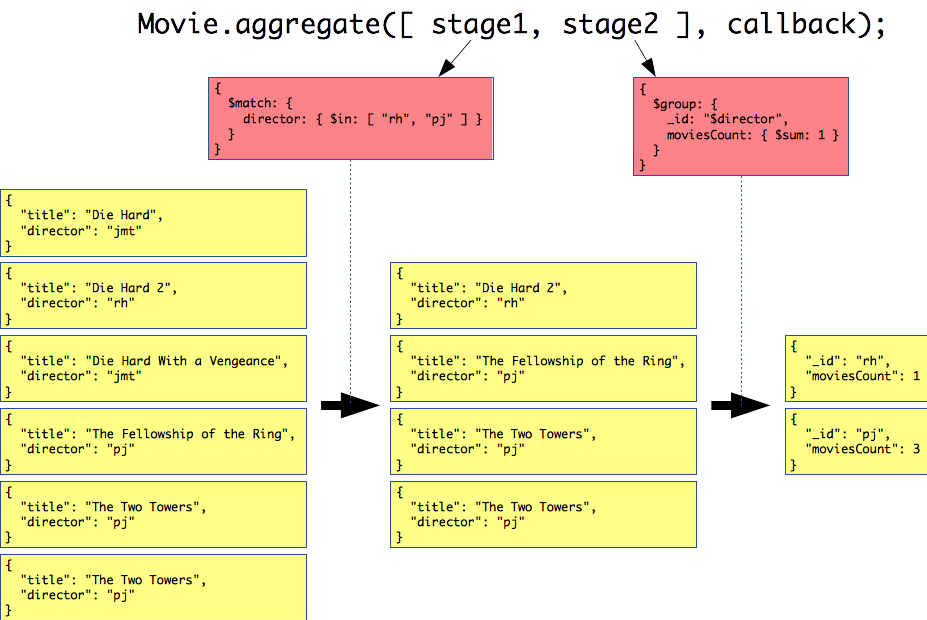
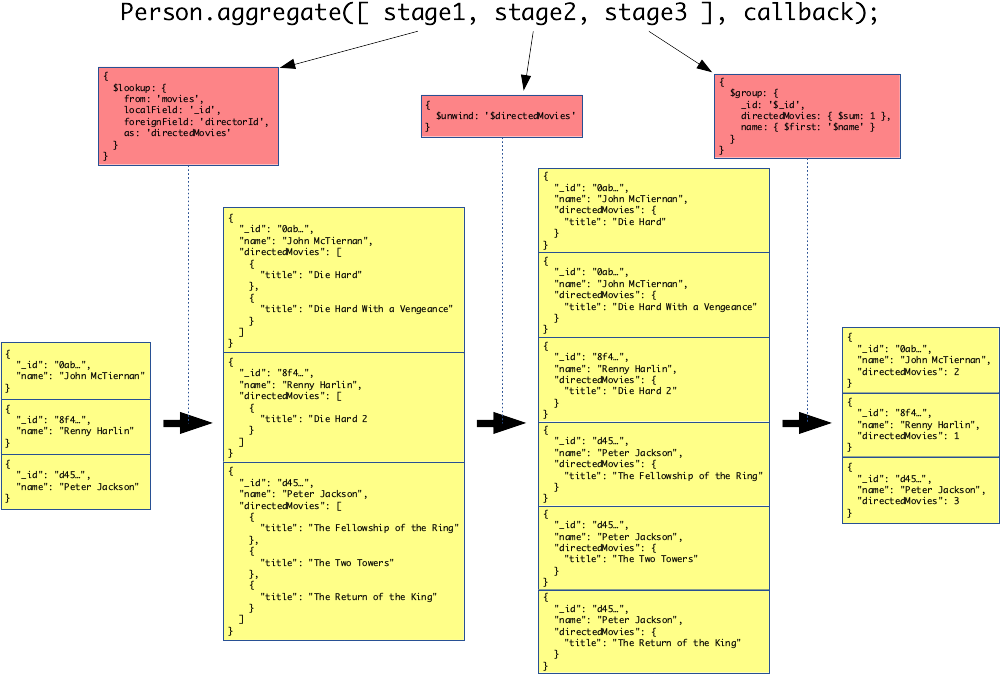
Express & mongoose: rewrite aggregation examples for mongodb 3.2+ with the  operator

diff --git a/subjects/express-mongoose/README.md b/subjects/express-mongoose/README.md
@@ -9,8 +9,8 @@ Learn how to implement advanced RESTful API operations in [Express][express] wit
 
 **Recommended reading**
 
-* [RESTful APIs](../rest/)
-* [RESTful API Conventions](../rest-conventions/)
+* [REST introduction & HTTP](../rest/)
+* [REST in depth](../rest-advanced/)
 * [Express](../express/)
 * [Mongoose](../mongoose/)
 
@@ -150,10 +150,12 @@ How do I get a reasonable amount of stuff?
 ### Paginating collections
 
 Some collections are just **too large to send** to the client in their entirety.
-The following examples will demonstrate two ways implement **pagination**
-to retrieve only one "page" of a collection at a time.
+The following examples will demonstrate two ways implement **pagination** to
+retrieve only one "page" of a collection at a time.
 
-The following examples assume that you have read [RESTful API Conventions](../rest-conventions/) which explains different ways to expose pagination in a RESTful API.
+The following examples assume that you have read [REST in
+Depth](../rest-advanced/) which explains different ways to expose pagination in
+a RESTful API.
 
 
 
@@ -324,22 +326,21 @@ In SQL, assuming People and Movies are in **different tables**, you would use a 
 ```sql
 SELECT people.*, SUM(movies.id) AS directed_movies_count
   FROM `people INNER JOIN movies` ON (people.id = movies.director_id)
-  `GROUP BY` people.id;
+  `GROUP BY people.id`;
 ```
 
-#### No join in MongoDB
+#### MongoDB aggregations
 
-However, there is **no JOIN** in MongoDB.
-
-If your related documents (People and Movies) are stored in two **separate collections** (as is the case in the demonstration RESTful API),
-there is **no way to retrieve that information in ONE query**.
+If your related documents are stored in two **separate collections** (as is the
+case for People and Movies in the demonstration RESTful API), you have to
+**aggregate** information from both collections.
 
 <p class='center'><img src='images/domain-model.png' class='w70' /></p>
 
-But what you can do is:
+Originally, there was no equivalent to the `JOIN` operator in MongoDB. However,
+the [`$lookup` aggregation operator][mongodb-lookup] was added in version 3.2.
 
-* Find the People you need (using `Person.find()`)
-* Count how many movies they have directed in one query using [MongoDB aggregations][mongodb-aggregation]
+To use it, you have to use [MongoDB aggregations][mongodb-aggregation].
 
 
 
@@ -364,88 +365,162 @@ Each **stage** is an object with an [aggregation pipeline operator][mongodb-aggr
 }
 ```
 
-### Aggregation pipeline example
+#### Aggregation pipeline example (part 1/3)
 
-Let's say you have retrieved a list of Person documents from the database,
-and you want to know how many Movies they have directed:
+Let's say you have retrieved a list of Person documents from the database, and
+you want to know how many Movies they have directed. The [`$lookup`
+operator][mongodb-lookup] retrieves each Person's directed Movies through the
+`directorId` property:
 
 ```js
-const people = [ /* List of Person documents from the database */ ];
-
-// Get the documents' IDs
-const personIds = people.map(person => person._id);
-
-Movie.`aggregate`([
-  {
-    `$match`: { // Select movies directed by the people we are interested in
-      director: { $in: personIds }
-    }
-  },
-  {
-    `$group`: { // Group the documents by director ID
-      _id: '$director',
-      moviesCount: { // Count the number of movies for that ID
-        $sum: 1
-      }
-    }
+{
+  $lookup: {
+    from: 'movies',
+    localField: '_id',
+    foreignField: 'directorId',
+    as: 'directedMovies'
   }
-], function(err, results) {
-  // Use the results...
-});
+}
+```
+
+Applying this operator adds the new `directedMovies` property to each Person:
+
+<!-- slide-column -->
+
+```js
+{
+  name: 'Peter Jackson'
+}
+```
+
+<!-- slide-column -->
+
+```js
+{
+  name: 'Peter Jackson',
+  `directedMovies`: [
+    { title: 'a' },
+    { title: 'b' }
+  ]
+}
+```
+
+#### Aggregation pipeline example (part 2/3)
+
+This would be sufficient to count the number of directed movies, but it also
+means you would fetch all the Movies' information from the database when you
+don't really need it. You can avoid this by adding 2 more steps to the pipeline.
+
+The [`$unwind` operator][mongodb-unwind] duplicates Person documents for each
+directed movie:
+
+```js
+{ $unwind: '$directedMovies' }
+```
+
+For example, if there is 1 Person with 2 Movies in the aggregation pipeline so
+far, it is duplicated into 2 People (with the same Person-related information)
+with 1 Movie each:
+
+<!-- slide-column -->
+
+```js
+{
+  name: 'Peter Jackson',
+  directedMovies: `[`
+    { title: 'a' },
+    { title: 'b' }
+  `]`
+}
+```
+
+<!-- slide-column -->
+
+```js
+{
+  name: 'Peter Jackson',
+  directedMovies: `{` title: 'a' `}`
+}
+{
+  name: 'Peter Jackson',
+  directedMovies: `{` title: 'b' `}`
+}
+```
+
+
+
+#### Aggregation pipeline example (part 3/3)
+
+Now that you have one document per Person per directed movie in the aggregation
+pipeline, you can use the [`$group` operator][mongodb-group] to merge these
+documents by ID (the Person's ID) to obtain one document per Person:
+
+```js
+{
+  $group: {
+    _id: '$_id',
+    name: { $first: '$name' },
+    directedMovies: { $sum: 1 }
+  }
+}
+```
+
+The `$first` operator takes the Person information from the first Person
+document with each ID, while the `$sum` operator takes care of counting the
+directed movies, transforming `directedMovies` into a number:
+
+<!-- slide-column -->
+
+```js
+{
+  name: 'Peter Jackson',
+  directedMovies: { title: 'a' }
+}
+{
+  name: 'Peter Jackson',
+  directedMovies: { title: 'b' }
+}
+```
+
+<!-- slide-column -->
+
+```js
+{
+  name: 'Peter Jackson',
+  `directedMovies: 2`
+}
 ```
 
 #### How does it work?
 
-<p class='center'><img src='images/aggregation-pipeline.png' class='w90' /></p>
+<p class='center'><img src='images/aggregation-pipeline.png' class='w100' /></p>
 
-#### Adding the aggregation results to the response
+### Using the aggregation pipeline with Mongoose
 
-That's all well and good, but you still have two separate sets of data:
-
-* The People you have retrieved with the **first query**
-* The aggregated number of Movies you have retrieved with the **aggregation query**
-
-If you just do `res.send(people)`, you will get this:
-
-```json
-[
-  { "name": "Renny Harlin" },
-  { "name": "Peter Jackson" }
-]
-```
-
-What you want is this:
-
-```json
-[
-  { "name": "Renny Harlin", "moviesCount": 1 },
-  { "name": "Peter Jackson", "moviesCount": 3 }
-]
-```
-
-#### Combining the results
-
-Here's how you can **combine** the array of People documents and the array of aggregated Movie counts:
+You can use MongoDB aggregations with Mongoose quite easily by simply calling
+the [`aggregate` method][mongoose-aggregate] on models:
 
 ```js
-const people = [ /* List of Person documents from the database */ ];
-const results = [ /* Aggregation results */ ];
+const Person = require('../models/person');
 
-// Convert the Person documents to JSON
-const peopleJson = people.map(person => person.toJSON());
-
-// For each result...
-results.forEach(function(result) {
-  // Get the director ID (that was used to $group)...
-  const resultId = result._id.toString();
-  // Find the corresponding person...
-  const correspondingPerson = peopleJson.find(person => person.id == resultId);
-  // And attach the new property
-  correspondingPerson.directedMoviesCount = result.moviesCount;
+Person.aggregate([
+  { stage1... },
+  { stage2... }
+], function(err, results) {
+  // TODO: handle error or process results...
 });
+```
 
-// Send the enriched response
-res.send(peopleJson);
+Note that the `results` array returned by Mongoose contains **plain objects, NOT
+Mongoose documents**. This is because a pipeline can easily transform documents
+so that they no longer match the original schema.
+
+If necessary, you can transform them back into Mongoose documents yourself by
+using your model:
+
+```js
+// Create documents from aggregated results.
+const aggregatedDocuments = results.map(result => new Person(result));
 ```
 
 ### Aggregation pipeline operators
@@ -455,13 +530,13 @@ They are all described in [the documentation][mongodb-aggregation-pipeline-opera
 Here are some of the most useful:
 
 Operator   | Description
-:---       | :---
+:--------- | :---------------------------------------------------------------------------------------------------------------------------
 `$group`   | Groups documents by a specified identifier expression and applies the accumulator expression(s), if specified, to each group
 `$limit`   | Passes the first *n* documents unmodified to the pipeline
-`$match`   | Filters documents to allow only matching documents to pass unmodified into the next pipeline stage
+`$match`   | **Filters** documents to allow only matching documents to pass unmodified into the next pipeline stage
 `$project` | Reshapes each document, such as by adding new fields or removing existing fields
-`$skip`    | Skips the first *n* documents
-`$sort`    | Reorders the documents by a specified sort key
+`$skip`    | Skips the first *n* documents (e.g. for **pagination**)
+`$sort`    | Reorders the documents by a specified sort key (e.g. for **pagination**)
 
 
 
@@ -485,4 +560,8 @@ Operator   | Description
 [mongodb-aggregation]: https://docs.mongodb.com/manual/aggregation/
 [mongodb-aggregation-pipeline]: https://docs.mongodb.com/manual/core/aggregation-pipeline/
 [mongodb-aggregation-pipeline-operators]: https://docs.mongodb.com/manual/reference/operator/aggregation/
+[mongodb-group]: https://docs.mongodb.com/manual/reference/operator/aggregation/group/
+[mongodb-lookup]: https://docs.mongodb.com/manual/reference/operator/aggregation/lookup/
+[mongodb-unwind]: https://docs.mongodb.com/manual/reference/operator/aggregation/unwind/
 [mongoose]: http://mongoosejs.com
+[mongoose-aggregate]: https://mongoosejs.com/docs/api/aggregate.html
